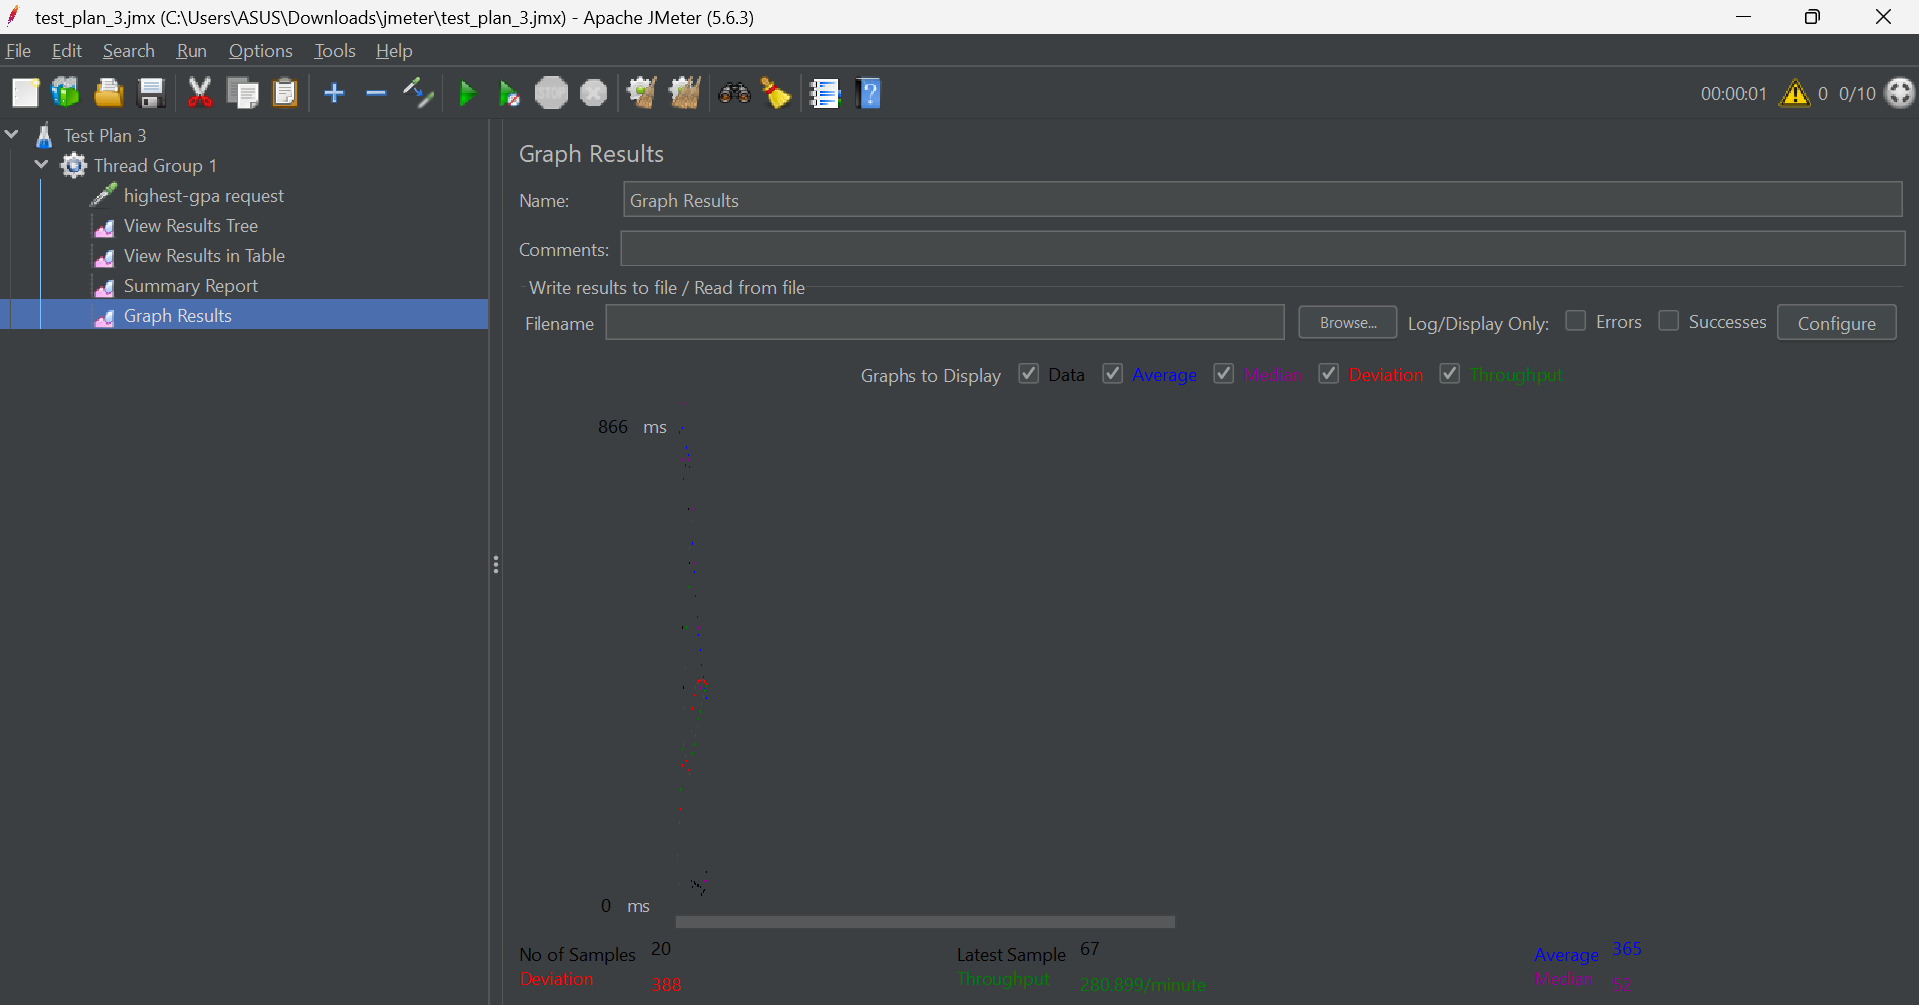
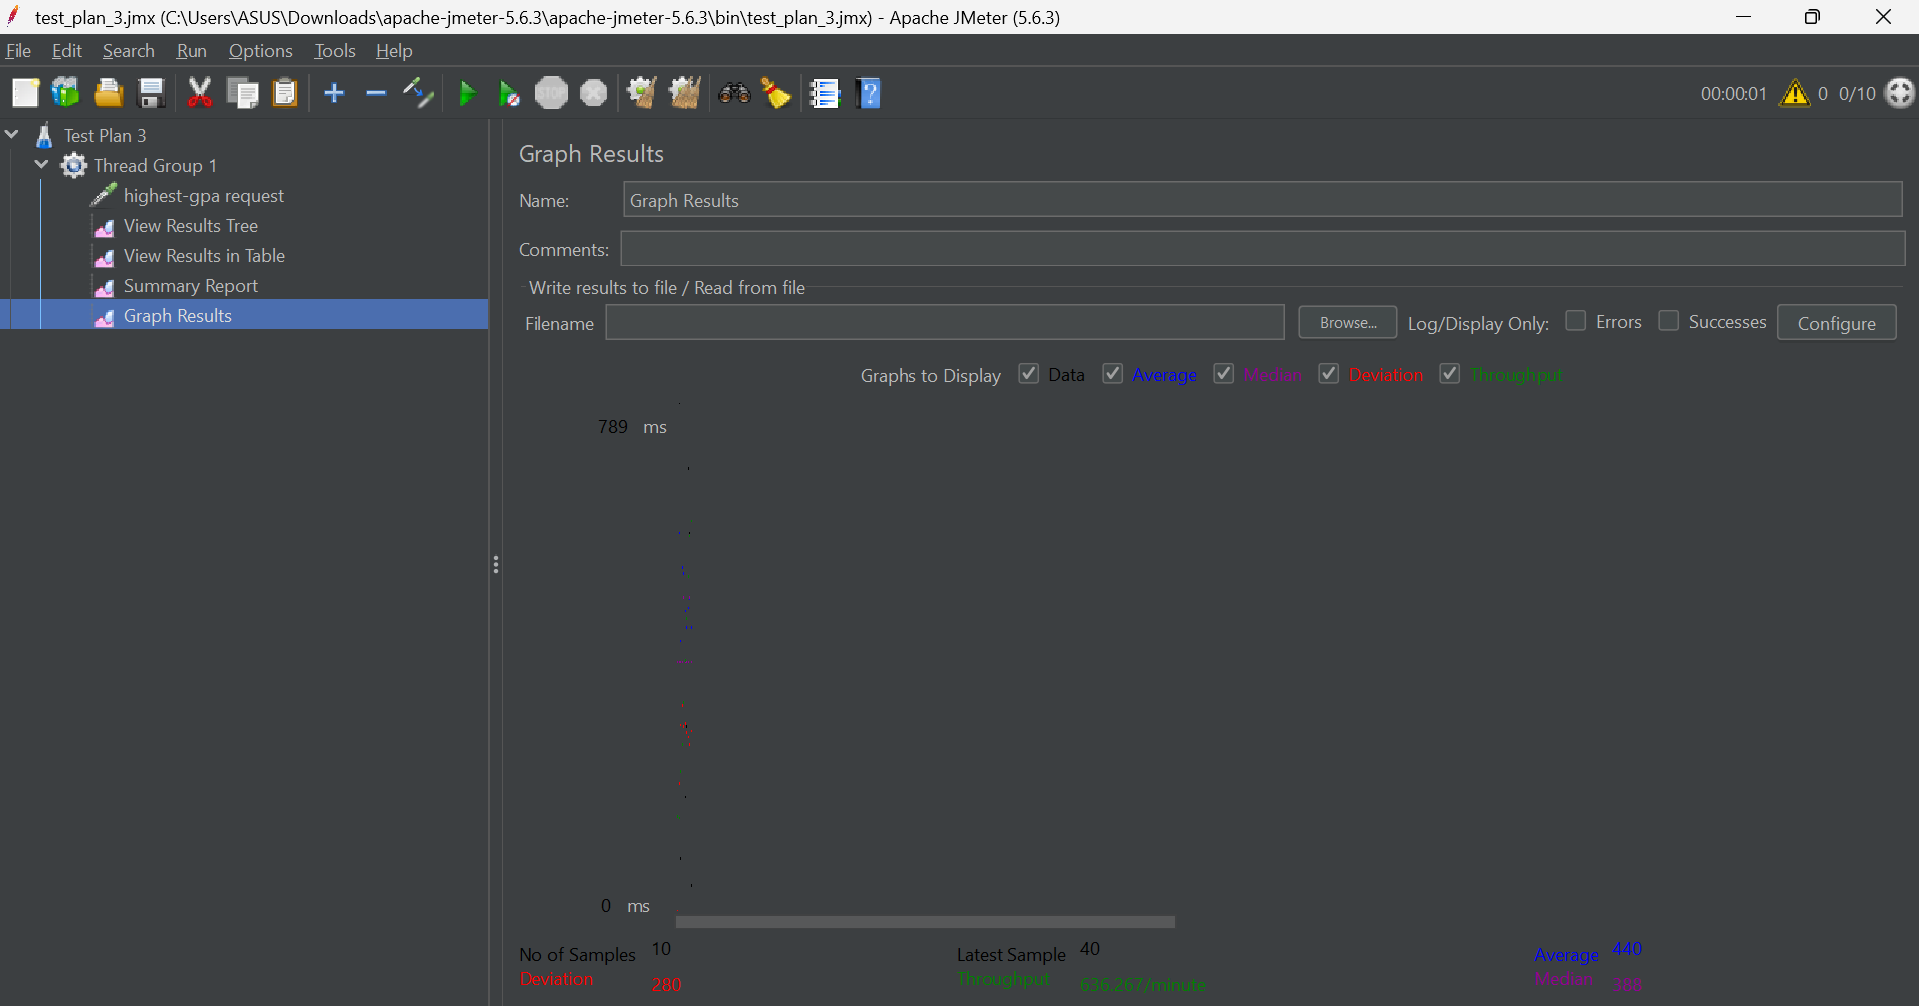
[DOCS] Add performance test after optimization and add conclusion to README

diff --git a/README.md b/README.md
@@ -11,6 +11,8 @@
    ![all-student graph results](/assets/images/test_plan_1 graph results.png)
 5. CLI
    ![all-student cli results](/assets/images/test_plan_1 cli.png)
+6. After Optimizing
+   ![all-student after optimizing](/assets/images/all-student after optimizing.png)
 
 
 ## Test Plan 2 (/all-student-name)
@@ -21,7 +23,11 @@
 3. Summary Report
    ![all-student-name summary report](/assets/images/test_plan_2 summary report.png)
 4. Graph Results
+   ![all-student-name graph results](/assets/images/test_plan_2 graph results.png)
+5. CLI
    ![all-student-name cli results](/assets/images/test_plan_2 cli.png)
+6. After Optimizing
+   ![all-student-name after optimizing](/assets/images/all-student-name after optimizing.png)
 
 
 ## Test Plan 3 (/highest-gpa)
@@ -32,10 +38,25 @@
 3. Summary Report
    ![highest-gpa summary report](/assets/images/test_plan_3 summary report.png)
 4. Graph Results
+   ![highest-gpa graph results](/assets/images/test_plan_3 graph results.png)
+5. CLI
    ![highest-gpa cli results](/assets/images/test_plan_3 cli.png)
+6. After Optimizing
+   ![highest-gpa after optimizing](/assets/images/highest-gpa after optimizing.png)
 
 
-# Performance Improvement
+## Hasil Performance Testing After Optimizing
+
+Hasil performance testing menunjukkan adanya peningkatan performance pada seluruh endpoint yang ditest.
+
+- Endpoint `/all-student` mengalami penurunan response time dari yang average-nya 57751 menjadi 21641.
+- Endpoint `/all-student-name` mengalami penurunan response time dari yang average-nya 1005 menjadi 303.
+- Endpoint `/highest-gpa` mengalami penurunan response time dari yang average-nya 440 menjadi 152.
+
+Dapat disimpulkan bahwa optimization yang dilakukan berhasil meningkatkan performance aplikasi, yang ditandai dengan penurunan response time dibandingkan sebelum optimization.
+
+
+# Performance Optimization
 1. /all-student
    ![cpu time getallstudentswithcourses](/assets/images/cpu time getallstudentswithcourses.png)
 2. /all-student-names
